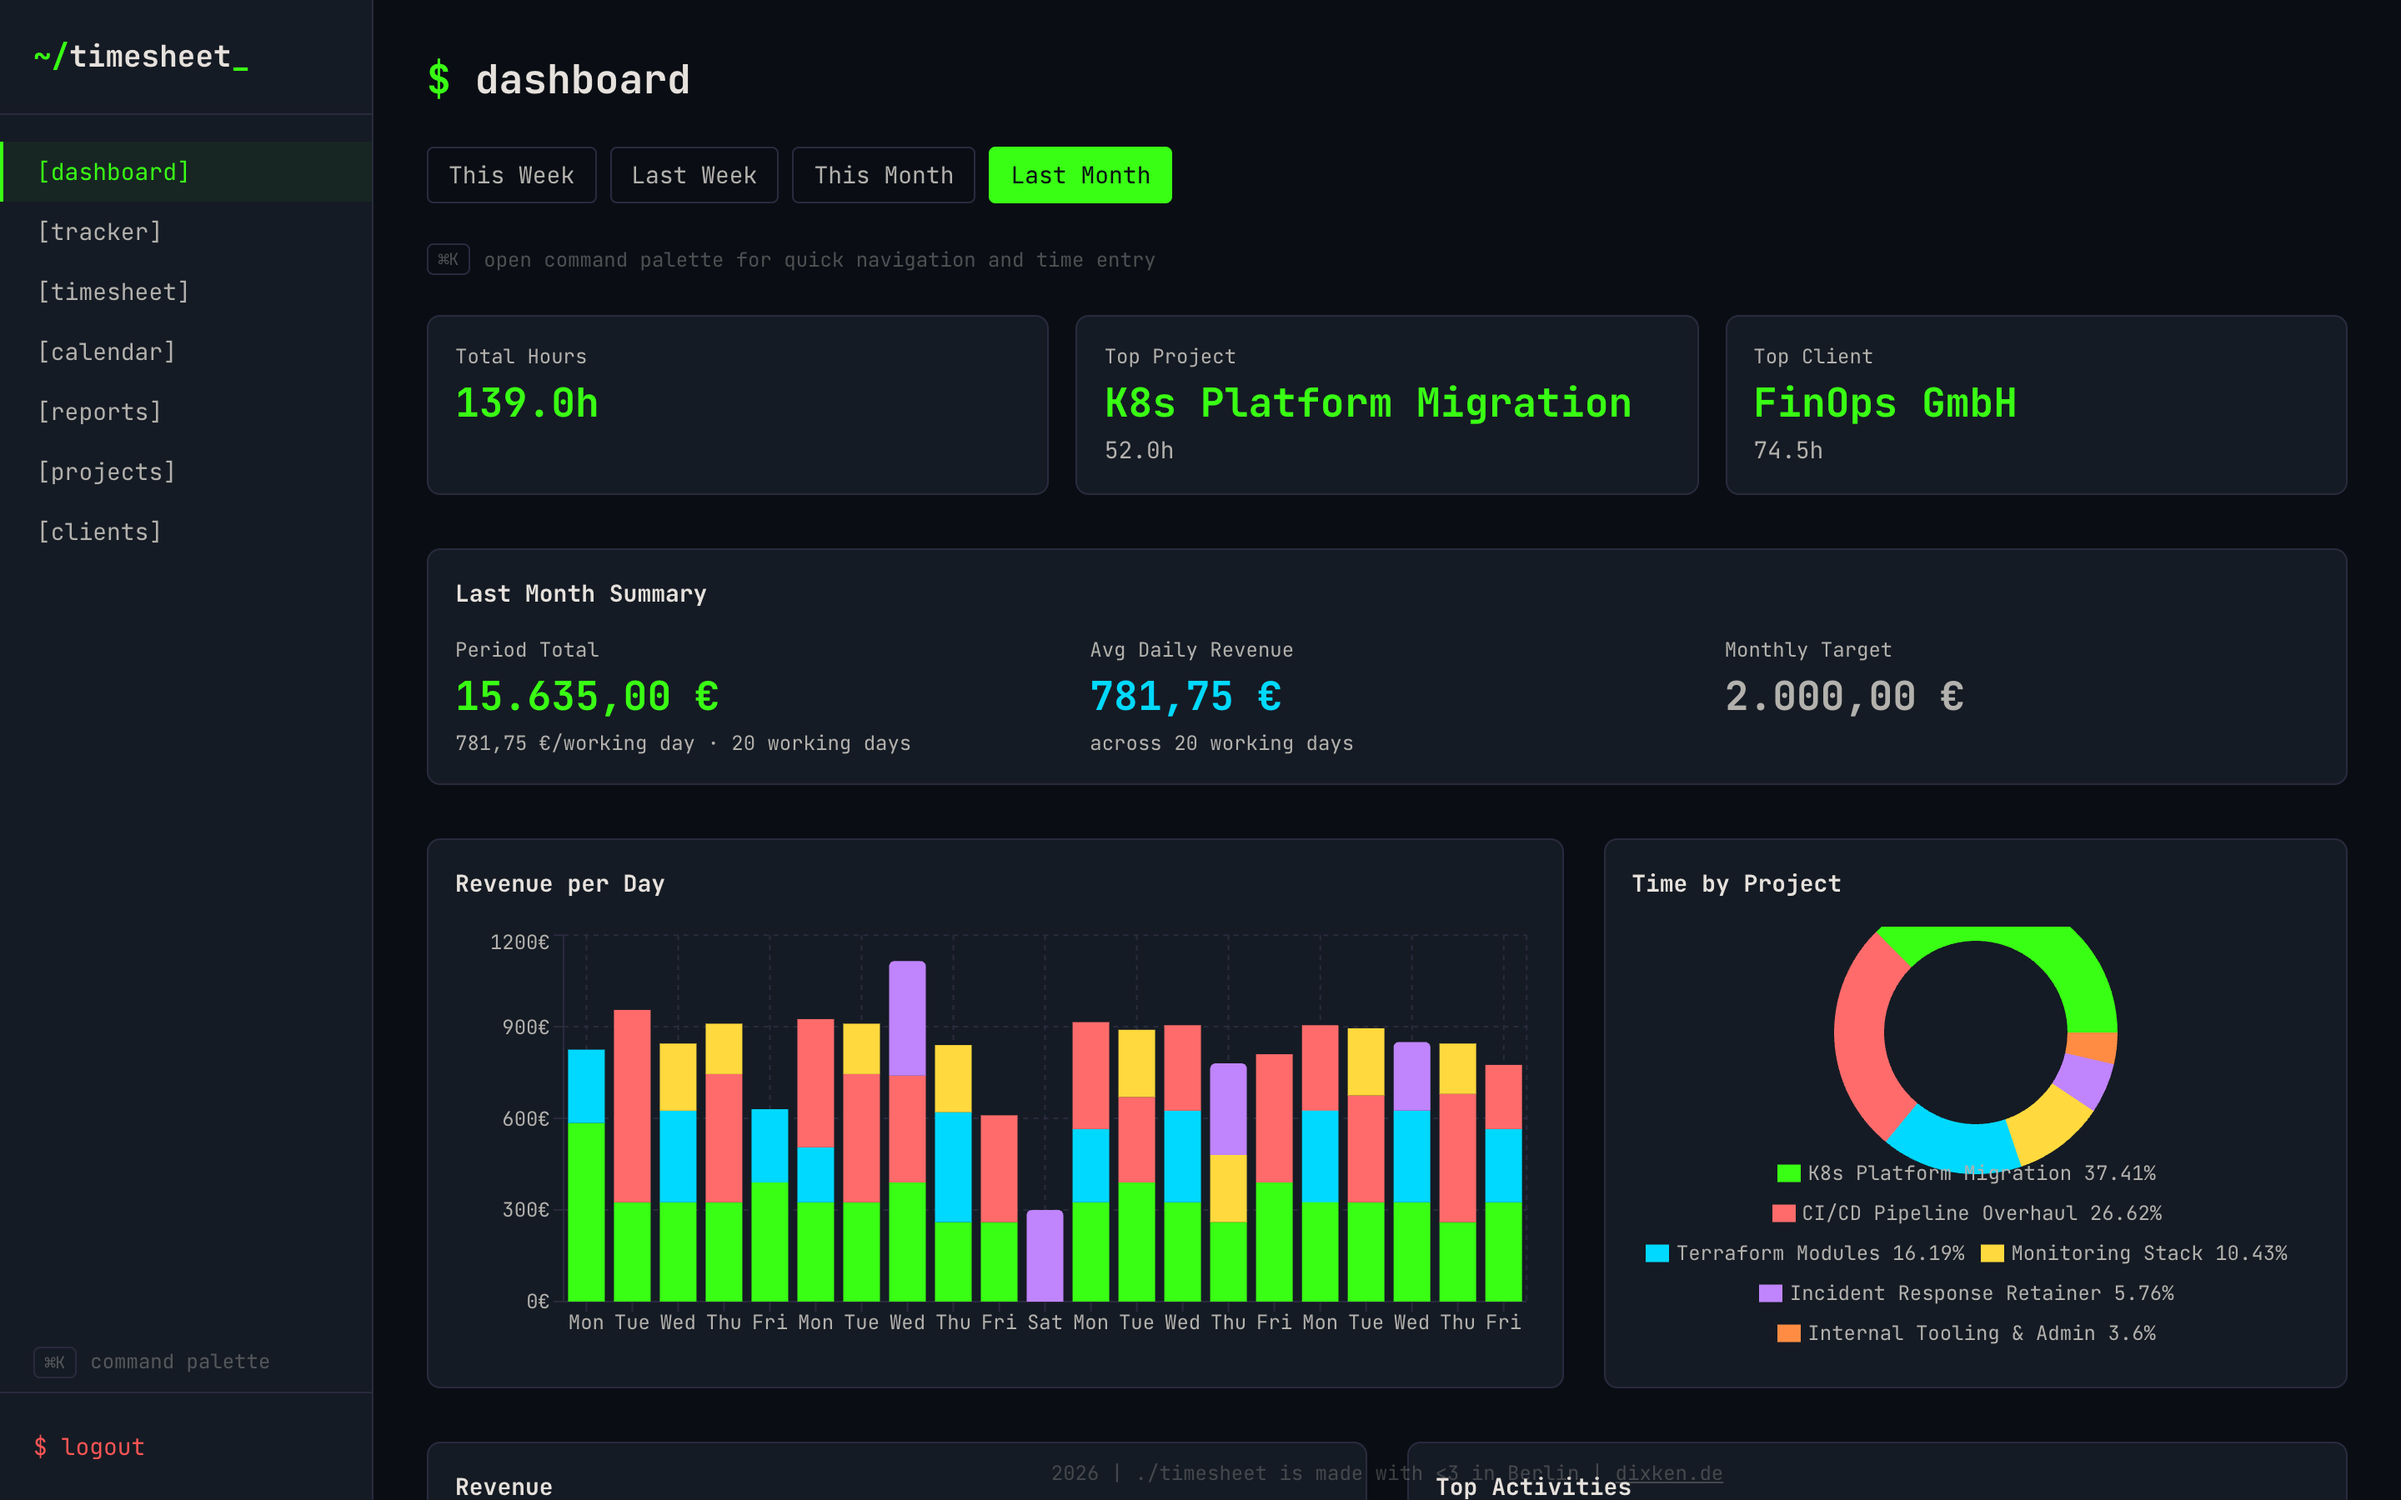
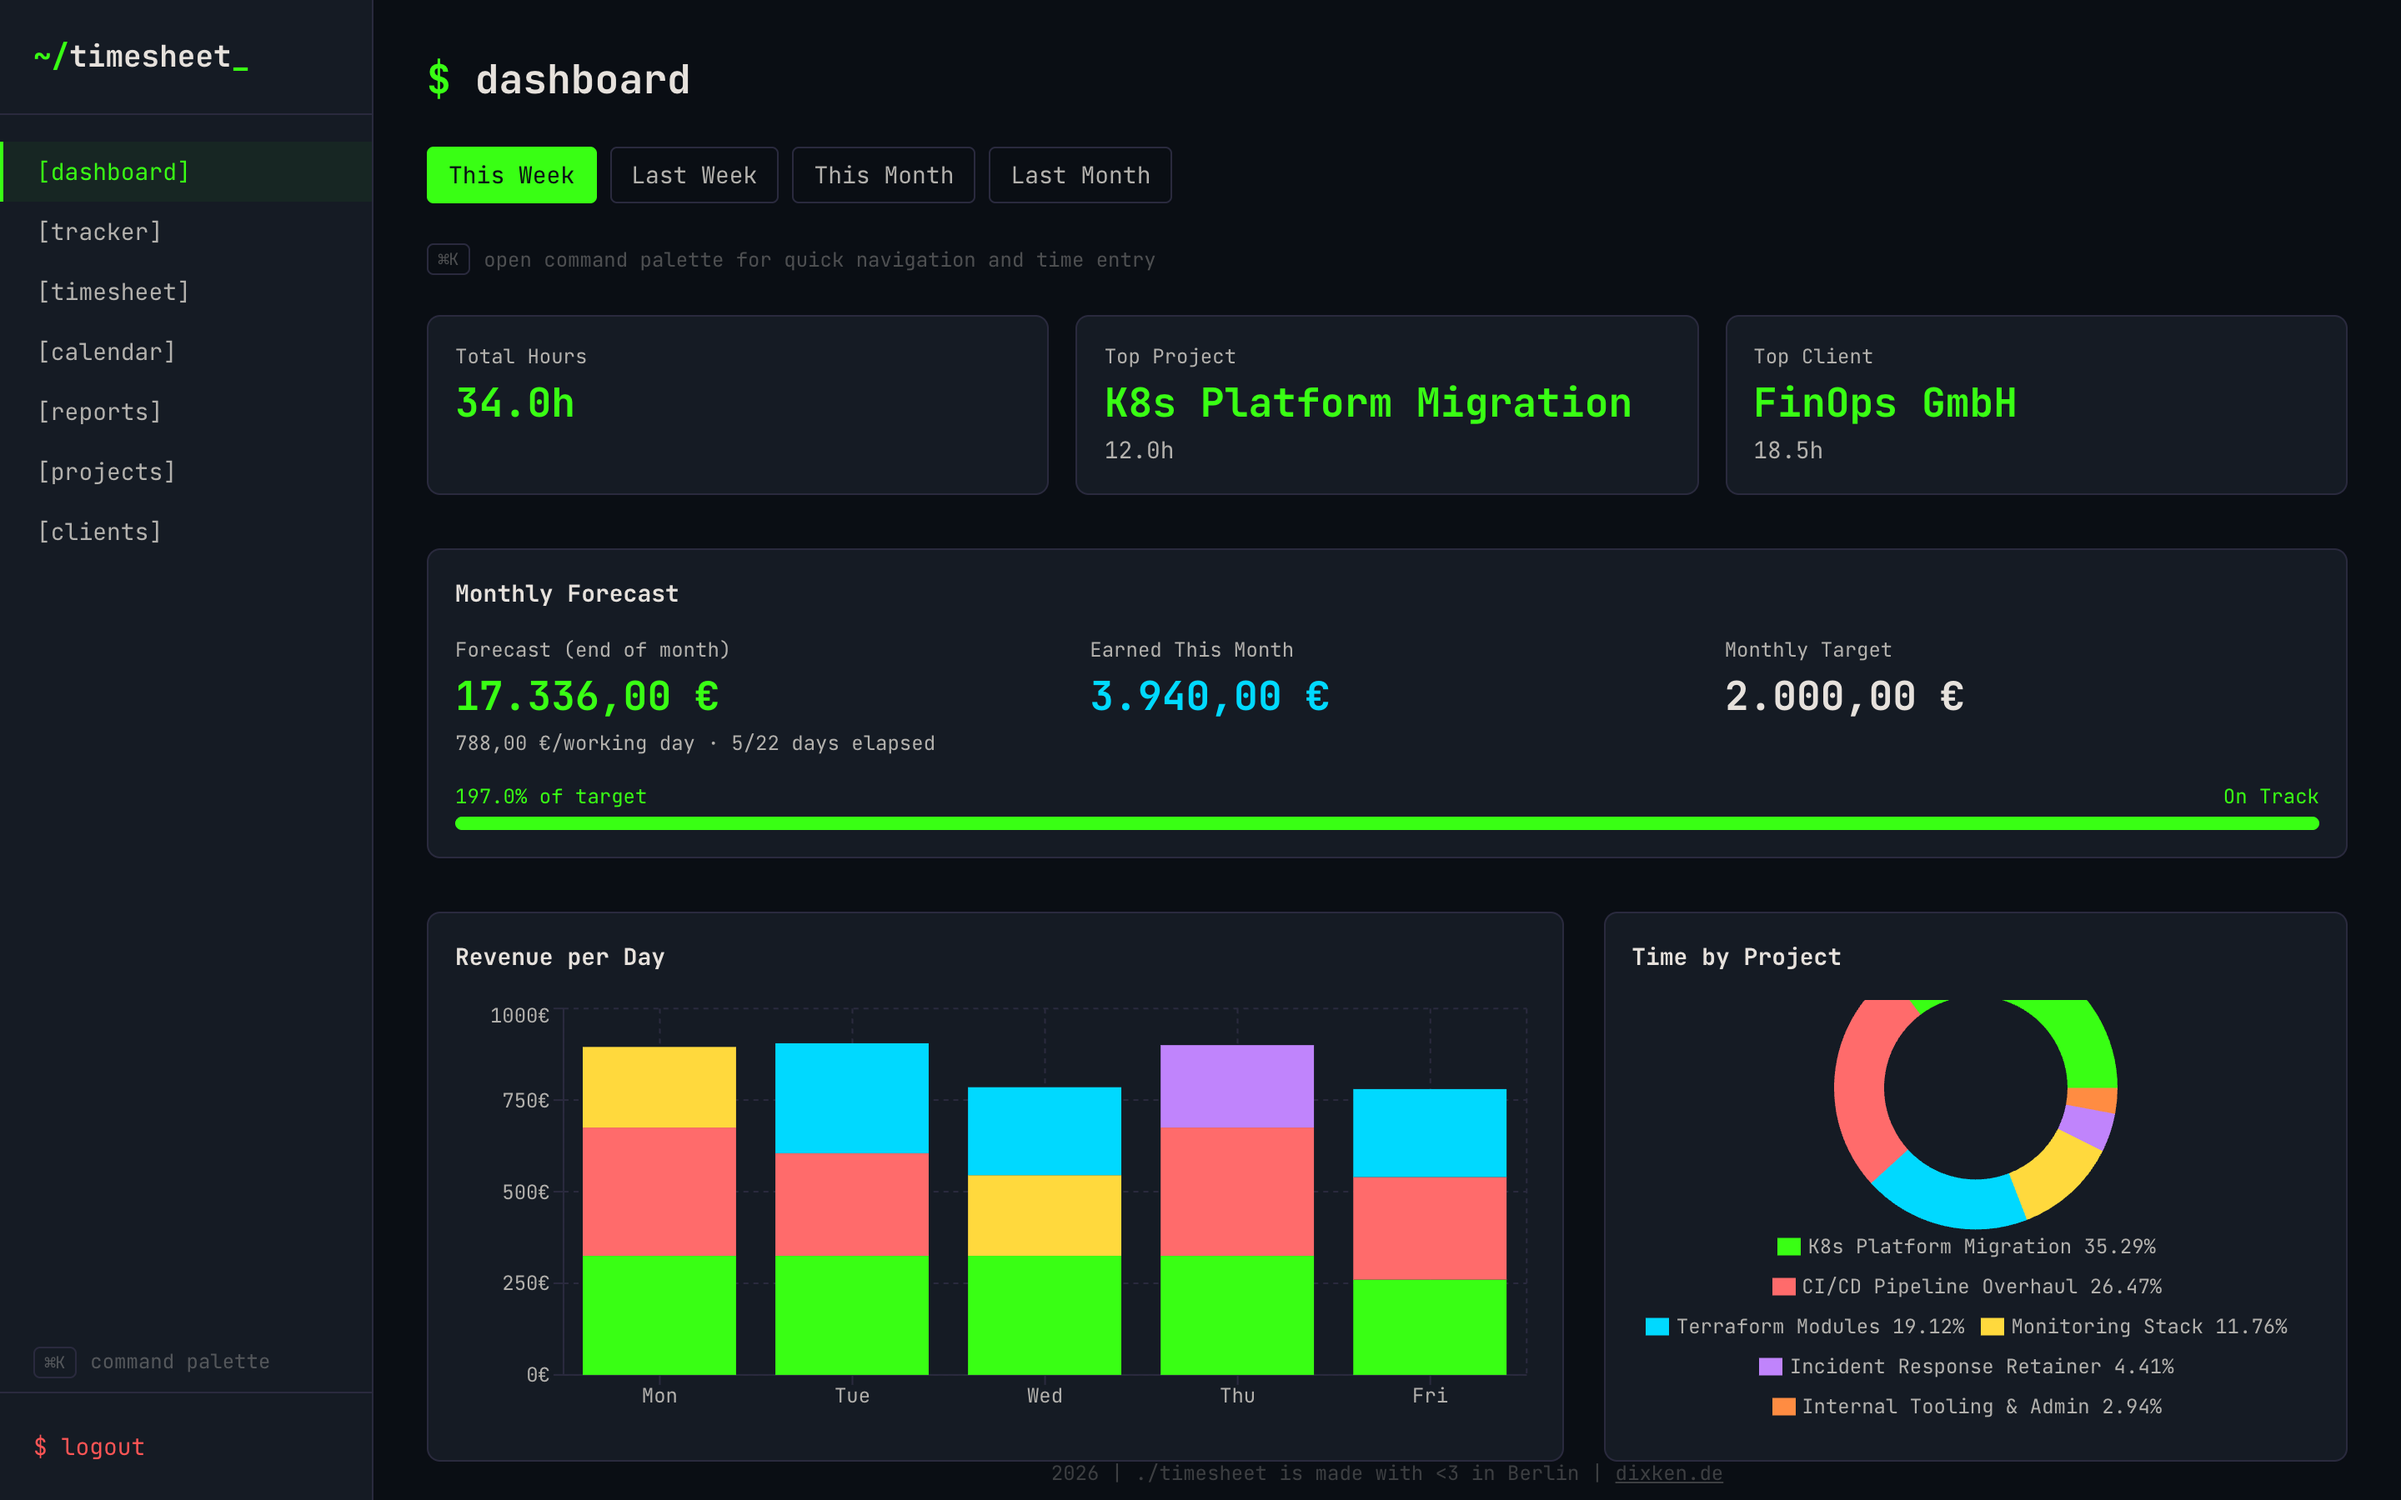
fix(screenshots): update screenshot script to capture default dashboard view

diff --git a/scripts/screenshots.ts b/scripts/screenshots.ts
@@ -24,16 +24,9 @@ async function takeScreenshots() {
     console.log(`  ✓ ${name}.png`)
   }
 
-  // 1. Dashboard — click "Last Month" to show February (full month of data)
+  // 1. Dashboard — "This Week" is the default view, just capture it
   console.log('Taking screenshots...')
   await page.goto(`${BASE_URL}/`, { waitUntil: 'networkidle0' })
-  const lastMonthBtn = await page.evaluateHandle(() =>
-    [...document.querySelectorAll('button')].find((b) => b.textContent?.trim() === 'Last Month')
-  )
-  if (lastMonthBtn) {
-    await (lastMonthBtn as any).click()
-    await sleep(1000)
-  }
   await screenshot('dashboard')
 
   // 2. Tracker — navigate to current month (March 2026, has data for week 1)
